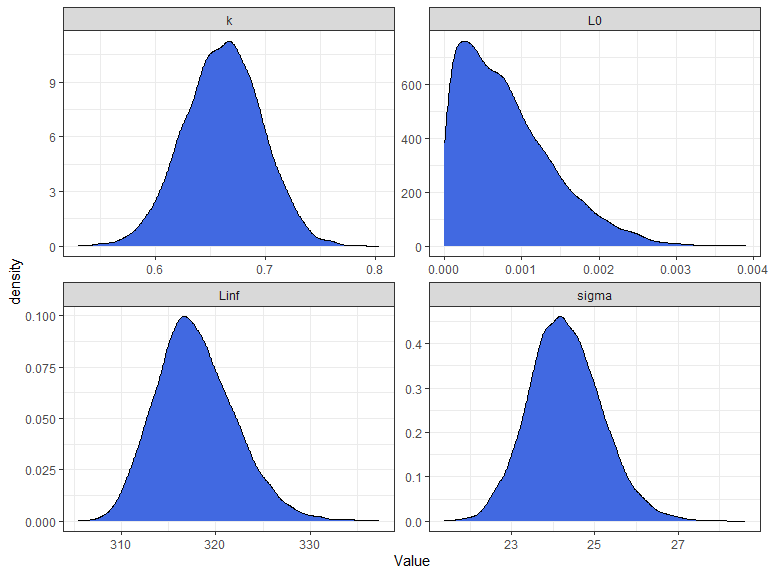
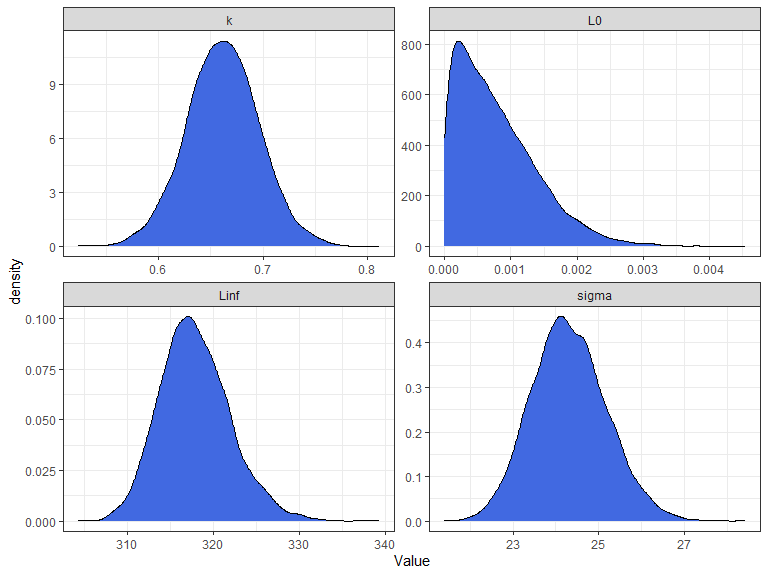
CI workflow added using usethis::use_github_action

diff --git a/README.md b/README.md
@@ -8,6 +8,7 @@
 [![Travis build
 status](https://travis-ci.org/jonathansmart/BayesGrowth.svg?branch=master)](https://travis-ci.org/jonathansmart/BayesGrowth)
 [![DOI](https://zenodo.org/badge/223878432.svg)](https://zenodo.org/badge/latestdoi/223878432)
+[![R-CMD-check](https://github.com/jonathansmart/BayesGrowth/actions/workflows/R-CMD-check.yaml/badge.svg)](https://github.com/jonathansmart/BayesGrowth/actions/workflows/R-CMD-check.yaml)
 <!-- badges: end -->
 
 BayesGrowth combines length-at-age modelling for fisheries with MCMC
@@ -113,11 +114,11 @@ fit
 #> post-warmup draws per chain=2500, total post-warmup draws=10000.
 #> 
 #>           mean se_mean   sd     2.5%      25%      50%      75%    97.5% n_eff
-#> Linf    317.88    0.09 4.19   310.60   314.97   317.55   320.52   326.84  2164
-#> k         0.66    0.00 0.04     0.59     0.64     0.66     0.69     0.73  2236
-#> L0        0.00    0.00 0.00     0.00     0.00     0.00     0.00     0.00  5014
-#> sigma    24.30    0.02 0.88    22.66    23.70    24.25    24.86    26.12  2640
-#> lp__  -3933.93    0.03 1.52 -3937.80 -3934.64 -3933.58 -3932.83 -3932.03  2776
+#> Linf    317.88    0.08 4.12   310.57   315.07   317.59   320.42   326.76  2533
+#> k         0.66    0.00 0.03     0.59     0.64     0.66     0.68     0.73  2594
+#> L0        0.00    0.00 0.00     0.00     0.00     0.00     0.00     0.00  3684
+#> sigma    24.31    0.02 0.88    22.69    23.71    24.27    24.88    26.12  3066
+#> lp__  -3933.96    0.03 1.55 -3937.94 -3934.70 -3933.60 -3932.82 -3932.04  2361
 #>       Rhat
 #> Linf     1
 #> k        1
@@ -125,7 +126,7 @@ fit
 #> sigma    1
 #> lp__     1
 #> 
-#> Samples were drawn using NUTS(diag_e) at Wed Aug 16 09:10:54 2023.
+#> Samples were drawn using NUTS(diag_e) at Thu Nov  9 12:45:44 2023.
 #> For each parameter, n_eff is a crude measure of effective sample size,
 #> and Rhat is the potential scale reduction factor on split chains (at 
 #> convergence, Rhat=1).
@@ -136,22 +137,11 @@ Some examples are the `pairs` and `extract` functions:
 
 ``` r
 library(tidyverse)
-#> Warning: package 'tidyverse' was built under R version 4.2.3
-#> Warning: package 'ggplot2' was built under R version 4.2.3
-#> Warning: package 'tibble' was built under R version 4.2.3
-#> Warning: package 'tidyr' was built under R version 4.2.3
-#> Warning: package 'readr' was built under R version 4.2.3
-#> Warning: package 'purrr' was built under R version 4.2.3
-#> Warning: package 'dplyr' was built under R version 4.2.3
-#> Warning: package 'stringr' was built under R version 4.2.3
-#> Warning: package 'forcats' was built under R version 4.2.3
-#> Warning: package 'lubridate' was built under R version 4.2.3
 library(rstan)
-#> Warning: package 'rstan' was built under R version 4.2.3
-#> Warning: package 'StanHeaders' was built under R version 4.2.3
 
 pairs(fit, pars = c("Linf", "k","L0", "sigma"))
 #> Warning in par(usr): argument 1 does not name a graphical parameter
+
 #> Warning in par(usr): argument 1 does not name a graphical parameter
 
 #> Warning in par(usr): argument 1 does not name a graphical parameter
